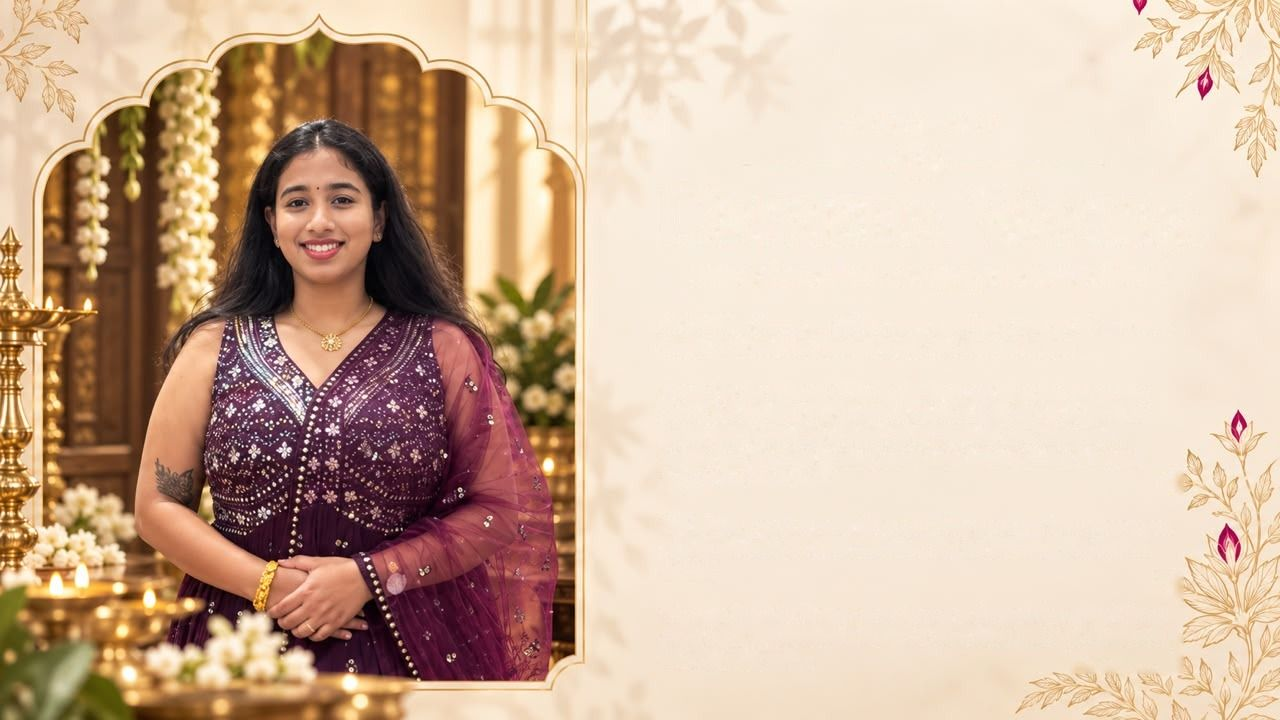
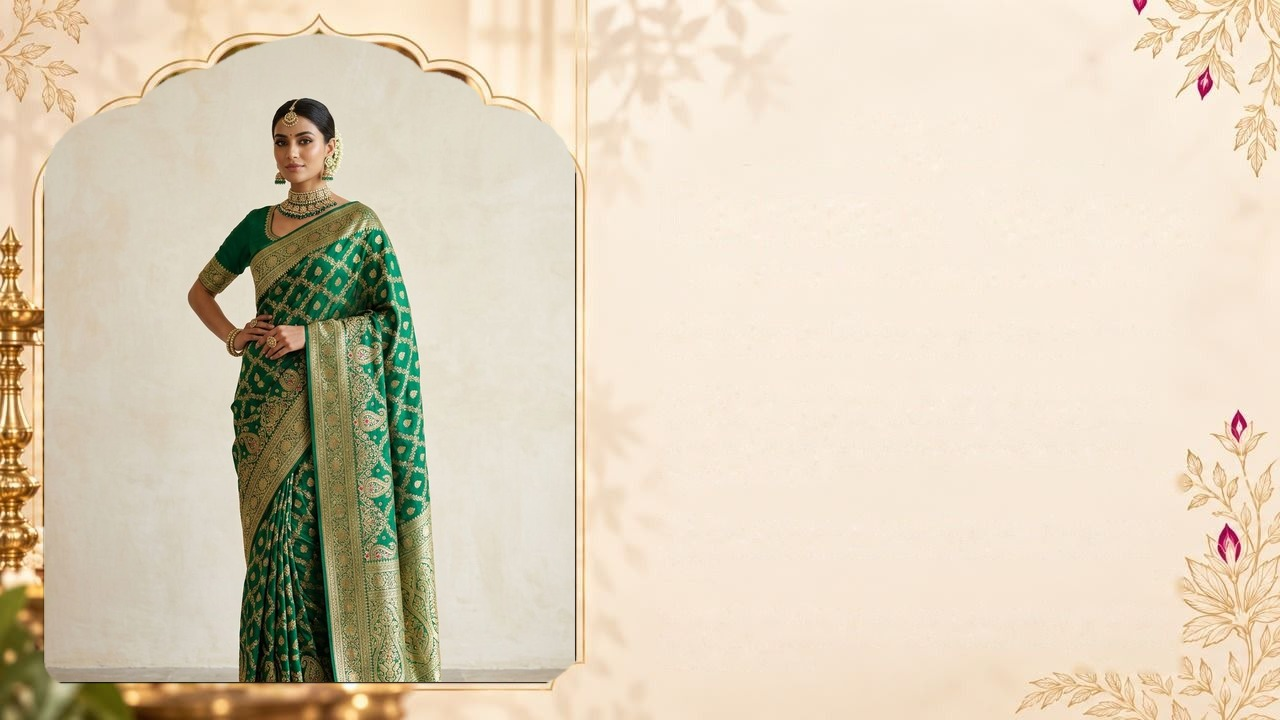
Our Story shows the green Banarasi saree photo and Daivisha as founder; About Us drops the founder line

diff --git a/src/components/home/OurStorySection.tsx b/src/components/home/OurStorySection.tsx
@@ -17,12 +17,12 @@ const Divider: React.FC<{ className?: string }> = ({ className = '' }) => (
 export const OurStorySection: React.FC = () => (
   <section id="our-story" className="bg-[#f8ebdb] border-y border-gold-500/40 scroll-mt-36">
     <div
-      className="relative max-w-[1920px] mx-auto lg:aspect-[16/9] lg:bg-[url('/images/about_banner.jpg?v=5')] lg:bg-cover lg:bg-center"
+      className="relative max-w-[1920px] mx-auto lg:aspect-[16/9] lg:bg-[url('/images/about_banner.jpg?v=6')] lg:bg-cover lg:bg-center"
       style={{ containerType: 'inline-size' }}
     >
       <img
-        src="/images/about_portrait.jpg?v=5"
-        alt="Smiling woman in a wine embellished outfit, framed by a temple arch with brass lamps and jasmine"
+        src="/images/about_portrait.jpg?v=6"
+        alt="Woman in a green Banarasi silk saree with gold zari work, framed by a temple arch"
         loading="lazy"
         className="lg:hidden w-full max-w-md mx-auto block"
       />
@@ -56,6 +56,11 @@ export const OurStorySection: React.FC = () => (
             you to discover a drape, make it part of your story and pass its beauty forward.
           </p>
         </div>
+
+        <p className="mt-6 lg:mt-[2cqw] text-center lg:text-right lg:pr-[7%]">
+          <span className="block font-serif italic text-[#6b1418] text-2xl lg:text-[2.1cqw]">Daivisha</span>
+          <span className="block font-sans uppercase tracking-[0.3em] text-gold-700 text-xs lg:text-[0.8cqw]">Founder, Daivisha Vastra</span>
+        </p>
       </div>
     </div>
   </section>

diff --git a/src/views/AboutUsView.tsx b/src/views/AboutUsView.tsx
@@ -43,11 +43,11 @@ export const AboutUsView: React.FC<AboutUsViewProps> = ({ onNavigateHome, onShop
           <ChevronRight className="w-3.5 h-3.5 text-stone-400" />
           <span className="text-charcoal font-medium">About Us</span>
         </nav>
-        <SectionHeading as="h1" kicker="Meet the brand" title="About Us" subtitle="Founded by Daivisha" />
+        <SectionHeading as="h1" kicker="Meet the brand" title="About Us" />
         <Prose
           className="mt-8"
           paragraphs={[
-            'Daivisha Vastra was founded by Daivisha with a love for Indian attire and the belief that traditional elegance belongs in every generation.',
+            'Daivisha Vastra was born from a love for Indian attire and the belief that traditional elegance belongs in every generation.',
             'The brand brings together a personal appreciation for sarees, a respect for cultural detail and a desire to make discovering beautiful drapes a more thoughtful experience.',
             'As a growing label, Daivisha Vastra is committed to learning, curating with care and building relationships with customers through clear information and attentive service.',
           ]}
